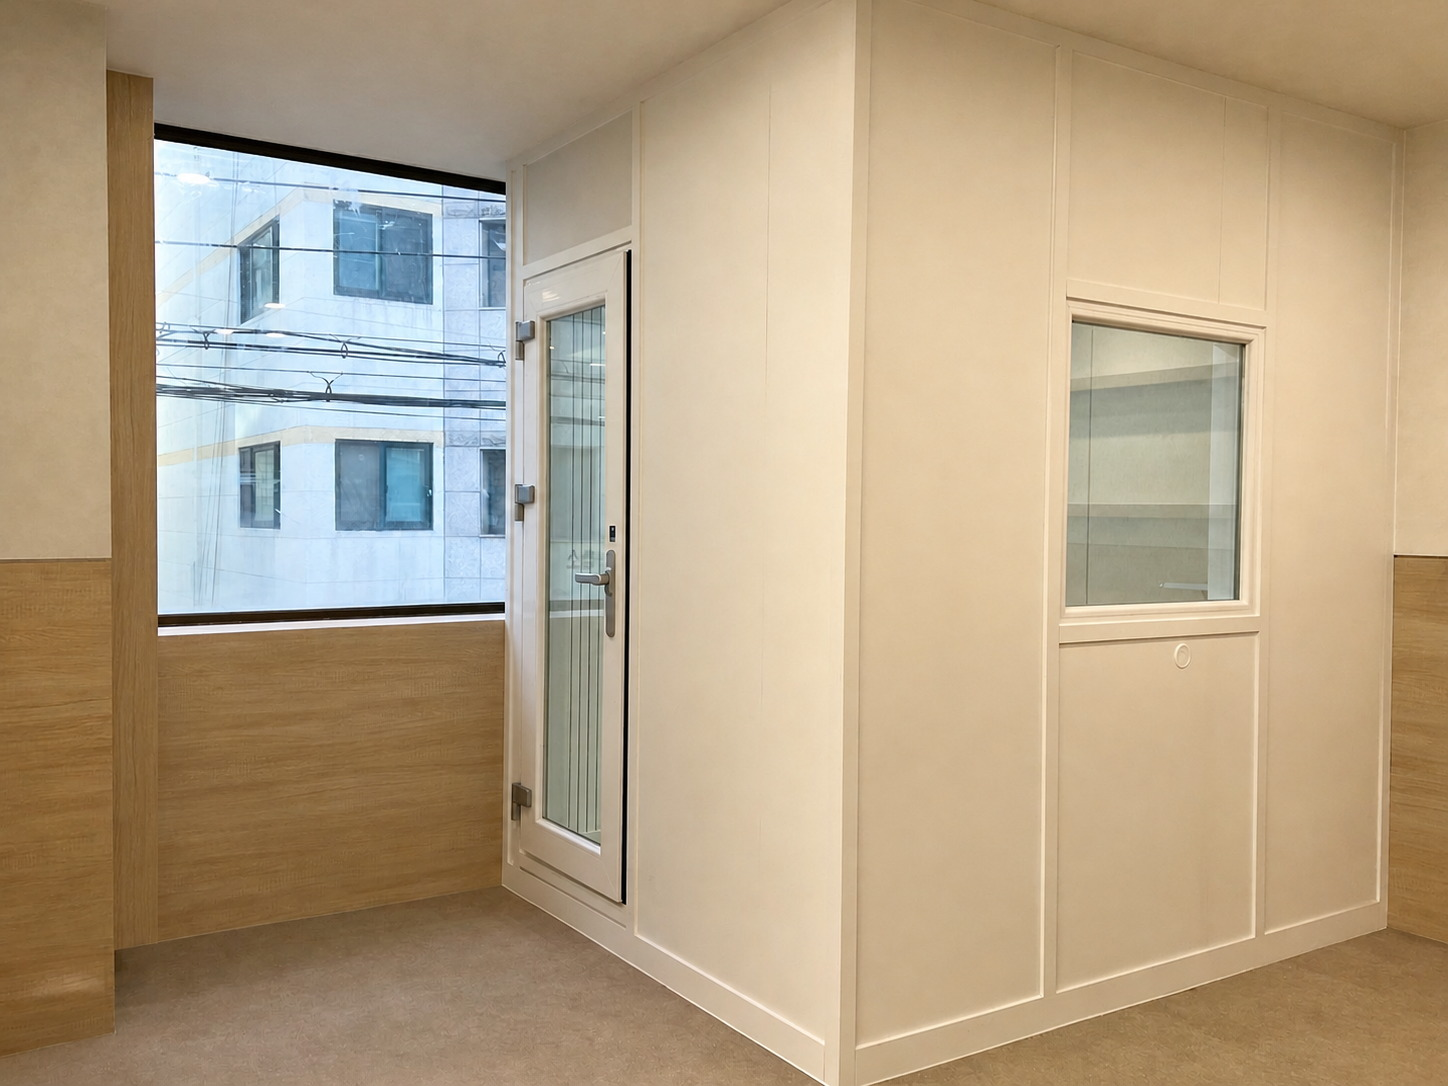
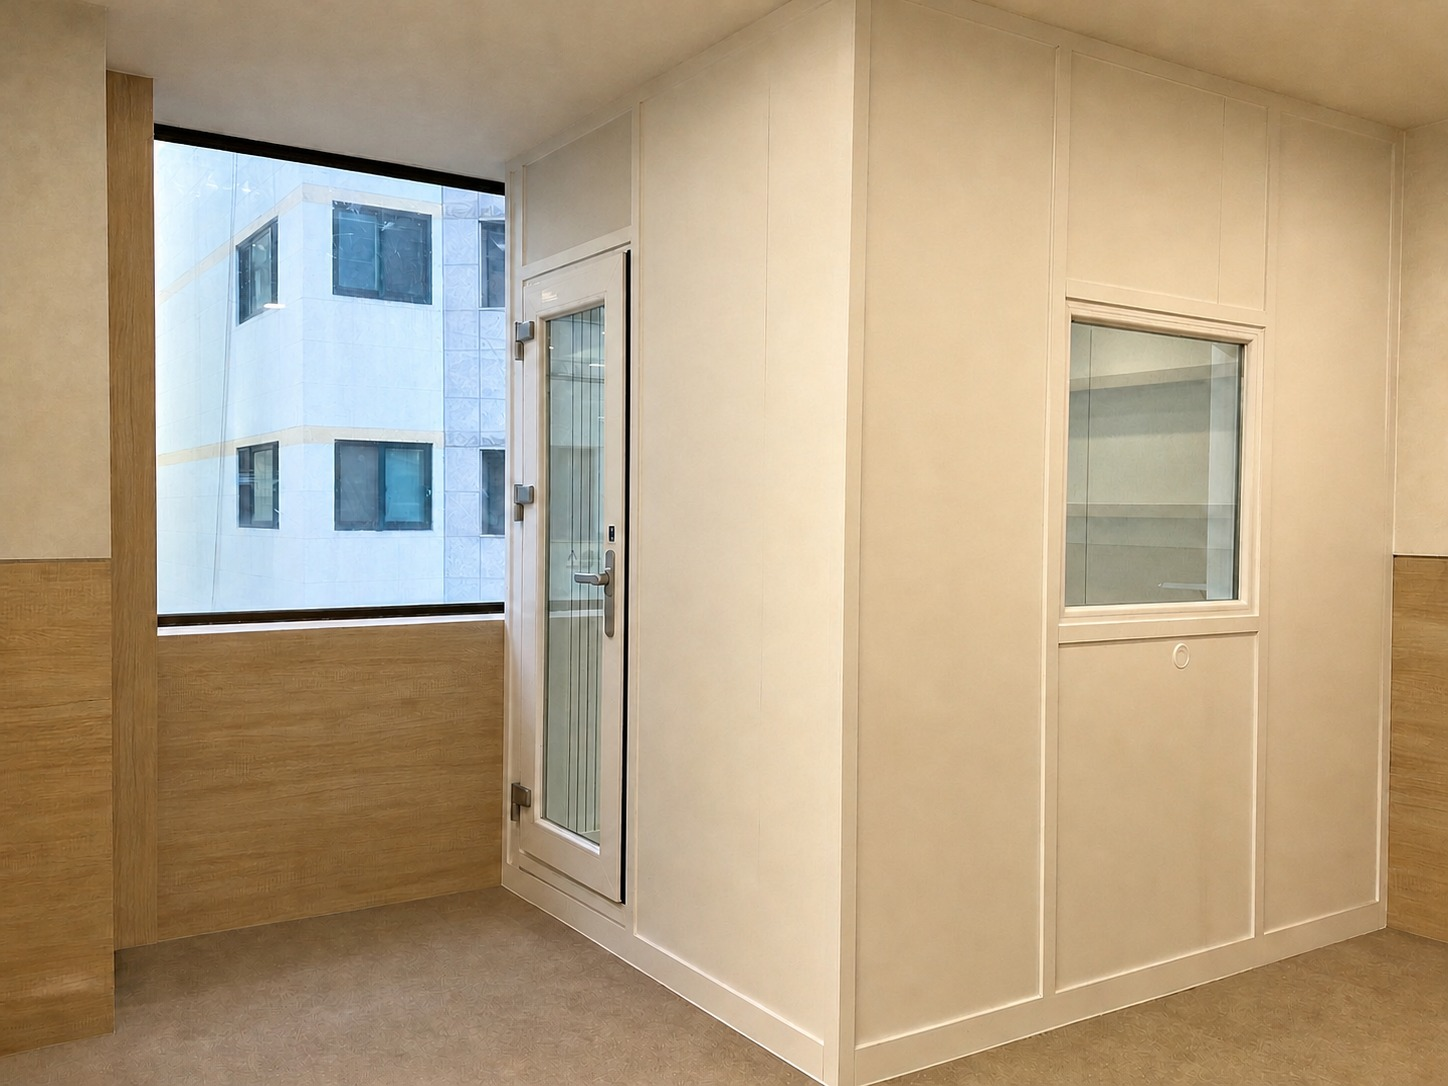
외관 사진 최종본 반영(창밖 전선 완전 제거) — 캐시 버전 v=3

Changed region(s): [[0.0932, 0.1519, 0.4351, 0.8204], [0.8391, 0.3343, 0.8702, 0.547], [0.1243, 0.1215, 0.1865, 0.1823]]

diff --git a/index.html b/index.html
@@ -1127,7 +1127,7 @@
           <img src="assets/interior-door.jpg?v=2" alt="블랙 아트보드 세 면과 화이트 라인타공 한 면, COB 매립등으로 마감한 모던 부스 내부." loading="lazy" decoding="async">
         </figure>
         <figure class="hero-slide" aria-hidden="true">
-          <img src="assets/clinic-exterior.jpg?v=2" alt="보청기 전문 센터 청력검사실 부스 외관. 검사시창과 시스템도어가 있는 백색 알판 마감." loading="lazy" decoding="async">
+          <img src="assets/clinic-exterior.jpg?v=3" alt="보청기 전문 센터 청력검사실 부스 외관. 검사시창과 시스템도어가 있는 백색 알판 마감." loading="lazy" decoding="async">
         </figure>
       </div>
 
@@ -1203,7 +1203,7 @@
           </figure>
 
           <figure class="shot rv">
-            <div class="ph"><span class="badge clinic">청력검사실</span><img src="assets/clinic-exterior.jpg?v=2" alt="보청기 전문 센터 청력검사실 부스 외관. 검사시창과 시스템도어가 있는 백색 알판 마감." loading="lazy"></div>
+            <div class="ph"><span class="badge clinic">청력검사실</span><img src="assets/clinic-exterior.jpg?v=3" alt="보청기 전문 센터 청력검사실 부스 외관. 검사시창과 시스템도어가 있는 백색 알판 마감." loading="lazy"></div>
             <figcaption><b>보청기 전문 센터 · 청력검사실</b><span>검사시창과 시스템도어. 소리를 재는 공간이라 마감과 기밀을 더 꼼꼼히 봤습니다.</span></figcaption>
           </figure>
 
@@ -1438,7 +1438,7 @@
 
         <div class="clinic-note rv">
           <div class="media">
-            <img src="assets/clinic-exterior.jpg?v=2" alt="보청기 전문 센터 청력검사실 부스 외관. 검사시창과 시스템도어가 있는 백색 알판 마감." loading="lazy">
+            <img src="assets/clinic-exterior.jpg?v=3" alt="보청기 전문 센터 청력검사실 부스 외관. 검사시창과 시스템도어가 있는 백색 알판 마감." loading="lazy">
           </div>
           <div>
             <span class="eyebrow">Reference</span>
@@ -1666,7 +1666,7 @@
           </figure>
 
           <figure class="shot rv" data-kind="new">
-            <div class="ph"><span class="badge clinic">청력검사실</span><img src="assets/clinic-exterior.jpg?v=2" alt="보청기 전문 센터 청력검사실 부스 외관. 검사시창과 시스템도어가 있는 백색 알판 마감." loading="lazy"></div>
+            <div class="ph"><span class="badge clinic">청력검사실</span><img src="assets/clinic-exterior.jpg?v=3" alt="보청기 전문 센터 청력검사실 부스 외관. 검사시창과 시스템도어가 있는 백색 알판 마감." loading="lazy"></div>
             <figcaption><b>보청기 전문 센터 · 외관</b><span>검사시창과 시스템도어. 로고 없이 마감만 보이는 외관 컷입니다.</span></figcaption>
           </figure>
 
